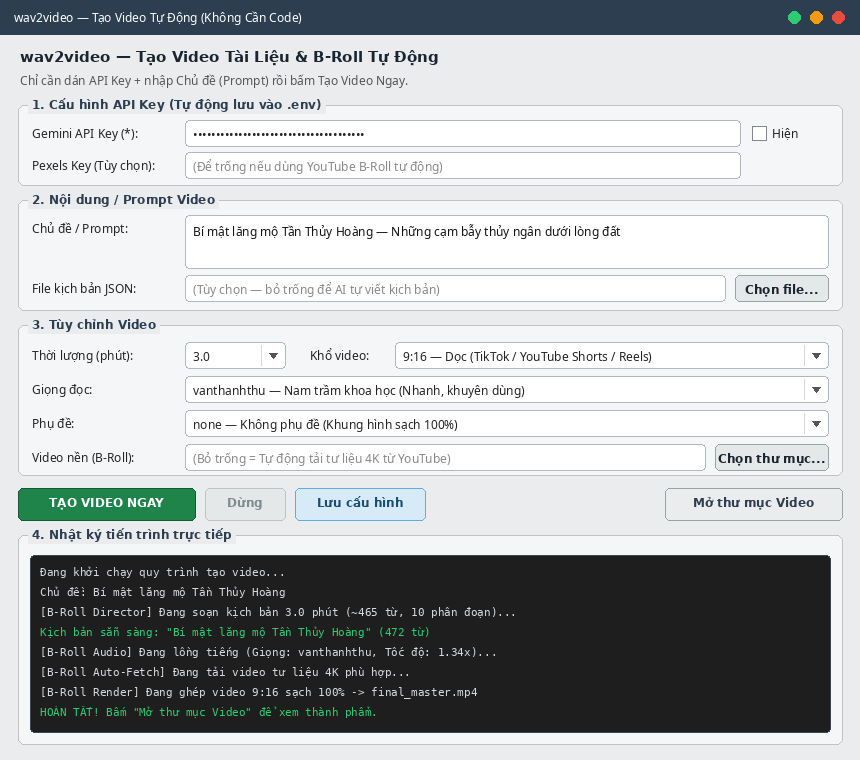
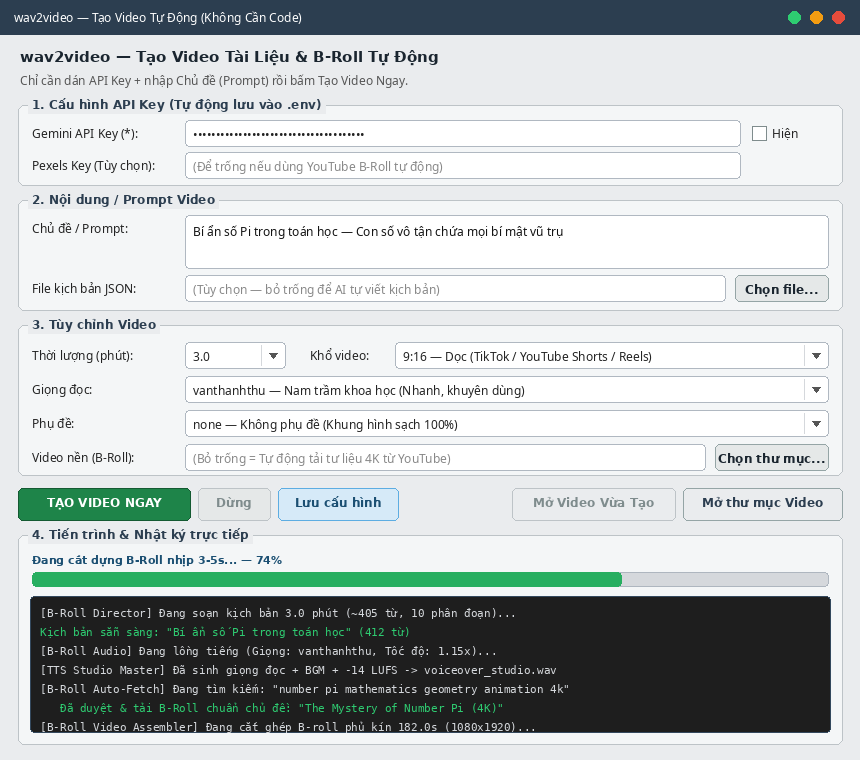
fix: Enforce strict B-Roll topic matching and add live progress bar (%) to Desktop App

diff --git a/graph/broll_director.py b/graph/broll_director.py
@@ -252,12 +252,37 @@ def _translate_topic_to_english_queries(topic: str) -> List[str]:
             "archaeological discovery human history 4k",
         ]
 
-    # Mặc định an toàn: Tuyệt đối KHÔNG gộp chữ tiếng Việt không dấu (tránh tìm nhầm bài hát/vlog giải trí).
-    # Trả về các từ khóa tài liệu khoa học/khám phá vũ trụ chuẩn để kết hợp với search_queries của LLM.
+    # 18. Toán học / Số Pi / Fibonacci / Hình học
+    if any(k in t_low for k in ("số pi", "so pi", "toán học", "toan hoc", "fibonacci", "tỷ lệ vàng", "hình học")) or re.search(r"\bpi\b", t_low):
+        return [
+            "number pi mathematics geometry animation 4k",
+            "mathematics numbers equations chalkboard 4k footage",
+            "sacred geometry golden ratio fractal animation 4k",
+        ]
+
+    # 19. Vật lý lượng tử / Nguyên tử / Trí tuệ nhân tạo
+    if any(k in t_low for k in ("lượng tử", "luong tu", "quantum", "nguyên tử", "trí tuệ nhân tạo", "ai ")):
+        return [
+            "quantum physics particles simulation 4k animation",
+            "artificial intelligence neural network visualization 4k",
+        ]
+
+    # Mặc định thông minh: Giữ lại các từ khóa quốc tế / thuật ngữ khoa học có trong topic (ví dụ: pi, dna, bitcoin...)
+    import unicodedata
+    ascii_topic = unicodedata.normalize("NFKD", topic)
+    ascii_topic = "".join(c for c in ascii_topic if not unicodedata.combining(c)).lower()
+    raw_tokens = re.findall(r"\b[a-z0-9]{2,}\b", ascii_topic)
+    vi_stop = {"la", "gi", "cua", "va", "nhung", "cac", "mot", "trong", "ve", "bi", "mat", "an", "su", "that", "tai", "sao", "nhu", "the", "nao", "so", "cho", "nguoi", "khong", "co", "duoc", "den", "tu", "nay", "kia"}
+    meaningful = [w for w in raw_tokens if w not in vi_stop]
+    if meaningful:
+        core = " ".join(meaningful[:3])
+        return [
+            f"{core} documentary explanation 4k",
+            f"{core} science visualization animation 4k",
+        ]
+
     return [
-        "cinematic science documentary 4k footage",
-        "earth history exploration 4k b-roll",
-        "historical mystery discovery 4k drone view",
+        f"{topic.strip()} documentary 4k",
     ]
 
 
@@ -558,6 +583,16 @@ _DOC_BADGES = {
 }
 
 
+_GENERIC_QUERY_WORDS = {
+    "and", "the", "for", "with", "from", "into", "about", "that", "this",
+    "video", "videos", "footage", "broll", "b-roll", "drone", "shot", "shots",
+    "4k", "8k", "hd", "uhd", "cinematic", "documentary", "timelapse", "aerial",
+    "animation", "visualization", "visuals", "clip", "clips", "explanation",
+    "mystery", "mysteries", "discovery", "exploration", "view", "scenes",
+    "national", "geographic", "bbc", "pbs", "youtube", "official",
+}
+
+
 def _is_title_junk(title: str) -> bool:
     """Kiểm tra xem tiêu đề có phải video giải trí rác / ca nhạc / gameplay không."""
     t_low = title.lower()
@@ -567,15 +602,28 @@ def _is_title_junk(title: str) -> bool:
     return False
 
 
-def _is_title_topic_relevant(title: str, query: str) -> bool:
-    """Xác minh tiêu đề video thực sự thuộc thể loại tư liệu/khoa học/lịch sử và khớp chủ đề."""
+def _is_title_topic_relevant(title: str, query: str, topic_text: str = "") -> bool:
+    """Xác minh tiêu đề video thực sự khớp với từ khóa chủ đề cốt lõi (không nhận bừa video chỉ vì có chữ 4K/documentary)."""
     if _is_title_junk(title):
         return False
     t_low = title.lower()
-    if any(b in t_low for b in _DOC_BADGES):
-        return True
-    q_words = [w for w in re.findall(r"\b[a-zA-Z]{3,}\b", query.lower()) if w not in ("and", "the", "for", "with", "video", "footage", "drone", "4k", "broll")]
-    matched = sum(1 for w in q_words if w in t_low)
+
+    # Tách các từ khóa chủ đề thực sự (từ >= 2 ký tự như 'pi', 'ai', '3d', 'dna'...)
+    q_words = [
+        w for w in re.findall(r"\b[a-zA-Z0-9]{2,}\b", query.lower())
+        if w not in _GENERIC_QUERY_WORDS
+    ]
+    if not q_words:
+        # Nếu query toàn từ chung chung, lấy thêm từ khóa từ topic gốc
+        q_words = [
+            w for w in re.findall(r"\b[a-zA-Z0-9]{2,}\b", (topic_text or "").lower())
+            if w not in _GENERIC_QUERY_WORDS
+        ]
+    if not q_words:
+        return False
+
+    # Khớp theo ranh giới từ (\b...\b) để 'pi' không khớp nhầm 'pig', 'piano', 'pangolin'
+    matched = sum(1 for w in q_words if re.search(r"\b" + re.escape(w) + r"\b", t_low))
     return matched >= 1
 
 
@@ -646,10 +694,11 @@ def fetch_broll_footage(
         if q and q.strip() and q.strip() not in combined_queries:
             combined_queries.append(q.strip())
 
-    # ƯU TIÊN SỐ 2: Ánh xạ chuẩn từ điển theo chủ đề
-    for en_q in _translate_topic_to_english_queries(topic_text):
-        if en_q not in combined_queries:
-            combined_queries.append(en_q)
+    # Chỉ bổ sung từ điển dự phòng nếu LLM trả về ít hơn 2 từ khóa
+    if len(combined_queries) < 2:
+        for en_q in _translate_topic_to_english_queries(topic_text):
+            if en_q not in combined_queries:
+                combined_queries.append(en_q)
 
     for query in combined_queries[:4]:
         clean_q = query.strip()
@@ -691,8 +740,8 @@ def fetch_broll_footage(
             v_dur = cand["duration"]
             if v_dur > 0 and (v_dur < 25 or v_dur > 1800):
                 continue
-            if not _is_title_topic_relevant(v_title, clean_q):
-                print(f"   │  └─ ⚠ Bỏ qua video không liên quan (ca nhạc/vlog/game): \"{v_title[:55]}...\"")
+            if not _is_title_topic_relevant(v_title, clean_q, topic_text):
+                print(f"   │  └─ ⚠ Bỏ qua video không khớp chủ đề: \"{v_title[:55]}...\"")
                 continue
             valid_candidates.append(cand)
 
@@ -730,32 +779,7 @@ def fetch_broll_footage(
                 except Exception as e:
                     print(f"   │  └─ yt-dlp bỏ qua ({e})")
         else:
-            # Fallback nếu flat-playlist không ra kết quả: dùng regex match-filter loại bỏ triệt để video ca nhạc/giải trí
-            out_template = str(footage_dir / f"broll_%(id)s.%(ext)s")
-            cmd = [
-                *ytdlp_cmd,
-                "--no-playlist",
-                "--extractor-args", "youtube:player_client=android",
-                "--match-filter", "!is_live & title !~* '(?i)(official\\s*mv|music\\s*video|karaoke|lyrics|remix|cover|dance|vlog|gameplay)'",
-                "--download-sections", "*00:08-01:30",
-                "--max-filesize", "45M",
-                "--socket-timeout", "15",
-                "-f", "b[height<=720]/best[height<=720]/bv[height<=720]+ba/b",
-                "--merge-output-format", "mp4",
-                "--ffmpeg-location", ff_bin,
-                "--max-downloads", "1",
-                "--output", out_template,
-                f"ytsearch1:{clean_q}",
-            ]
-            try:
-                res = subprocess.run(cmd, capture_output=True, text=True, timeout=50)
-                for f in footage_dir.iterdir():
-                    if f.is_file() and f.suffix.lower() in valid_exts and f.stat().st_size > 500_000:
-                        if not f.name.startswith("broll_topic_") and f not in downloaded_files:
-                            downloaded_files.append(f)
-                            print(f"   │  └─ Tải thành công video: {f.name} ({f.stat().st_size / (1024*1024):.1f} MB)")
-            except Exception as e:
-                pass
+            print(f"   │  └─ ⚠ Không tìm thấy video YouTube nào khớp sát chủ đề cho truy vấn \"{clean_q}\".")
 
         if len(downloaded_files) >= 2:
             break

diff --git a/app.py b/app.py
@@ -142,6 +142,29 @@ def build_cli_command(cfg: Dict[str, object]) -> List[str]:
     return cmd
 
 
+def estimate_progress_from_log(line: str) -> Optional[tuple]:
+    """Ước lượng % tiến trình từ dòng log thực tế của backend."""
+    if "MASTER VIDEO ĐÃ HOÀN TẤT" in line or "HOÀN TẤT THÀNH CÔNG" in line:
+        return (100.0, 100.0, "Hoàn tất 100%!")
+    if "[B-Roll Render]" in line:
+        return (88.0, 97.0, "Đang xuất video hoàn chỉnh (1080p)...")
+    if "Đang kết nối các phân đoạn" in line:
+        return (80.0, 87.0, "Đang ghép nối các phân đoạn B-Roll...")
+    if "[B-Roll Video Assembler]" in line:
+        return (68.0, 79.0, "Đang cắt dựng B-Roll nhịp 3-5s...")
+    if "[B-Roll Auto-Fetch]" in line or "[B-Roll Footage]" in line or "[B-Roll Studio]" in line:
+        return (48.0, 67.0, "Đang tìm & kiểm duyệt video tư liệu đúng chủ đề...")
+    if "[TTS Studio Master]" in line or "Thu âm hoàn tất" in line:
+        return (44.0, 47.0, "Đã hoàn tất thu âm & hòa âm studio")
+    if "[B-Roll Audio]" in line or "[Voice Clone Vi]" in line:
+        return (28.0, 43.0, "Đang lồng tiếng & hòa âm nhạc nền...")
+    if "Kịch bản đã sẵn sàng" in line:
+        return (24.0, 27.0, "Đã soạn xong kịch bản")
+    if "[B-Roll Director]" in line:
+        return (10.0, 23.0, "Đang soạn kịch bản bằng AI...")
+    return None
+
+
 def open_folder(path: Path) -> None:
     """Mở file hoặc thư mục kết quả bằng trình quản lý tệp / trình phát mặc định."""
     if not path.suffix and not path.exists():
@@ -294,6 +317,7 @@ def run_gui_app() -> None:
     proc_ref: Dict[str, Optional[subprocess.Popen]] = {"proc": None}
     last_video_ref: Dict[str, Optional[Path]] = {"path": None}
     log_queue: "queue.Queue[str]" = queue.Queue()
+    progress_state: Dict[str, object] = {"pct": 0.0, "cap": 0.0, "running": False, "label": "Sẵn sàng (0%)"}
 
     def collect_config() -> Dict[str, object]:
         v_code = next((k for k, lbl in VOICE_OPTIONS if lbl == voice_var.get()), "vanthanhthu")
@@ -330,8 +354,24 @@ def run_gui_app() -> None:
 
     def poll_logs() -> None:
         while not log_queue.empty():
-            append_log(log_queue.get_nowait())
-        root.after(120, poll_logs)
+            line = log_queue.get_nowait()
+            append_log(line)
+            est = estimate_progress_from_log(line)
+            if est is not None:
+                min_p, cap_p, lbl = est
+                progress_state["pct"] = max(float(progress_state["pct"]), min_p)
+                progress_state["cap"] = max(float(progress_state["cap"]), cap_p)
+                progress_state["label"] = lbl
+
+        if progress_state["running"]:
+            cur = float(progress_state["pct"])
+            cap = float(progress_state["cap"])
+            if cur < cap:
+                progress_state["pct"] = min(cap, cur + 0.35)
+        cur_pct = float(progress_state["pct"])
+        progress_bar["value"] = cur_pct
+        progress_lbl_var.set(f"{progress_state['label']} — {int(round(cur_pct))}%")
+        root.after(200, poll_logs)
 
     def start_render() -> None:
         if proc_ref["proc"] is not None:
@@ -355,6 +395,7 @@ def run_gui_app() -> None:
         stop_btn.configure(state=tk.NORMAL)
         play_btn.configure(state=tk.DISABLED)
         last_video_ref["path"] = None
+        progress_state.update({"pct": 4.0, "cap": 9.0, "running": True, "label": "Đang khởi tạo..."})
 
         def worker() -> None:
             env = os.environ.copy()
@@ -386,10 +427,13 @@ def run_gui_app() -> None:
                             last_video_ref["path"] = cand
                 code = proc.wait()
                 if code == 0:
+                    progress_state.update({"pct": 100.0, "cap": 100.0, "running": False, "label": "Hoàn tất"})
                     log_queue.put("\n✅ HOÀN TẤT! Bạn có thể bấm '▶ Mở Video Vừa Tạo' hoặc '📂 Mở thư mục Video'.\n")
                 else:
+                    progress_state.update({"running": False, "label": f"Đã dừng (mã {code})"})
                     log_queue.put(f"\n⚠ Tiến trình dừng với mã lỗi: {code}\n")
             except Exception as exc:
+                progress_state.update({"running": False, "label": "Lỗi khởi chạy"})
                 log_queue.put(f"\n❌ Lỗi khởi chạy: {exc}\n")
             finally:
                 proc_ref["proc"] = None
@@ -429,14 +473,21 @@ def run_gui_app() -> None:
     play_btn.pack(side=tk.RIGHT, padx=(8, 0))
     ttk.Button(btn_frame, text="📂 Mở thư mục Video", command=lambda: open_folder(WORKSPACE_DIR)).pack(side=tk.RIGHT)
 
-    # 5. Log Output Frame
-    log_frame = ttk.LabelFrame(main_frame, text="4. Nhật ký tiến trình trực tiếp", padding=8)
+    # 5. Progress Bar & Log Output Frame
+    log_frame = ttk.LabelFrame(main_frame, text="4. Tiến trình & Nhật ký trực tiếp", padding=8)
     log_frame.pack(fill=tk.BOTH, expand=True)
 
-    log_box = scrolledtext.ScrolledText(log_frame, height=12, state=tk.DISABLED, font=("Consolas", 9))
+    prog_row = ttk.Frame(log_frame)
+    prog_row.pack(fill=tk.X, pady=(0, 6))
+    progress_lbl_var = tk.StringVar(value="Sẵn sàng — 0%")
+    ttk.Label(prog_row, textvariable=progress_lbl_var, font=("Segoe UI", 9, "bold")).pack(anchor="w")
+    progress_bar = ttk.Progressbar(prog_row, orient=tk.HORIZONTAL, mode="determinate", maximum=100)
+    progress_bar.pack(fill=tk.X, pady=(3, 0))
+
+    log_box = scrolledtext.ScrolledText(log_frame, height=11, state=tk.DISABLED, font=("Consolas", 9))
     log_box.pack(fill=tk.BOTH, expand=True)
 
-    root.after(120, poll_logs)
+    root.after(200, poll_logs)
     root.mainloop()
 
 
